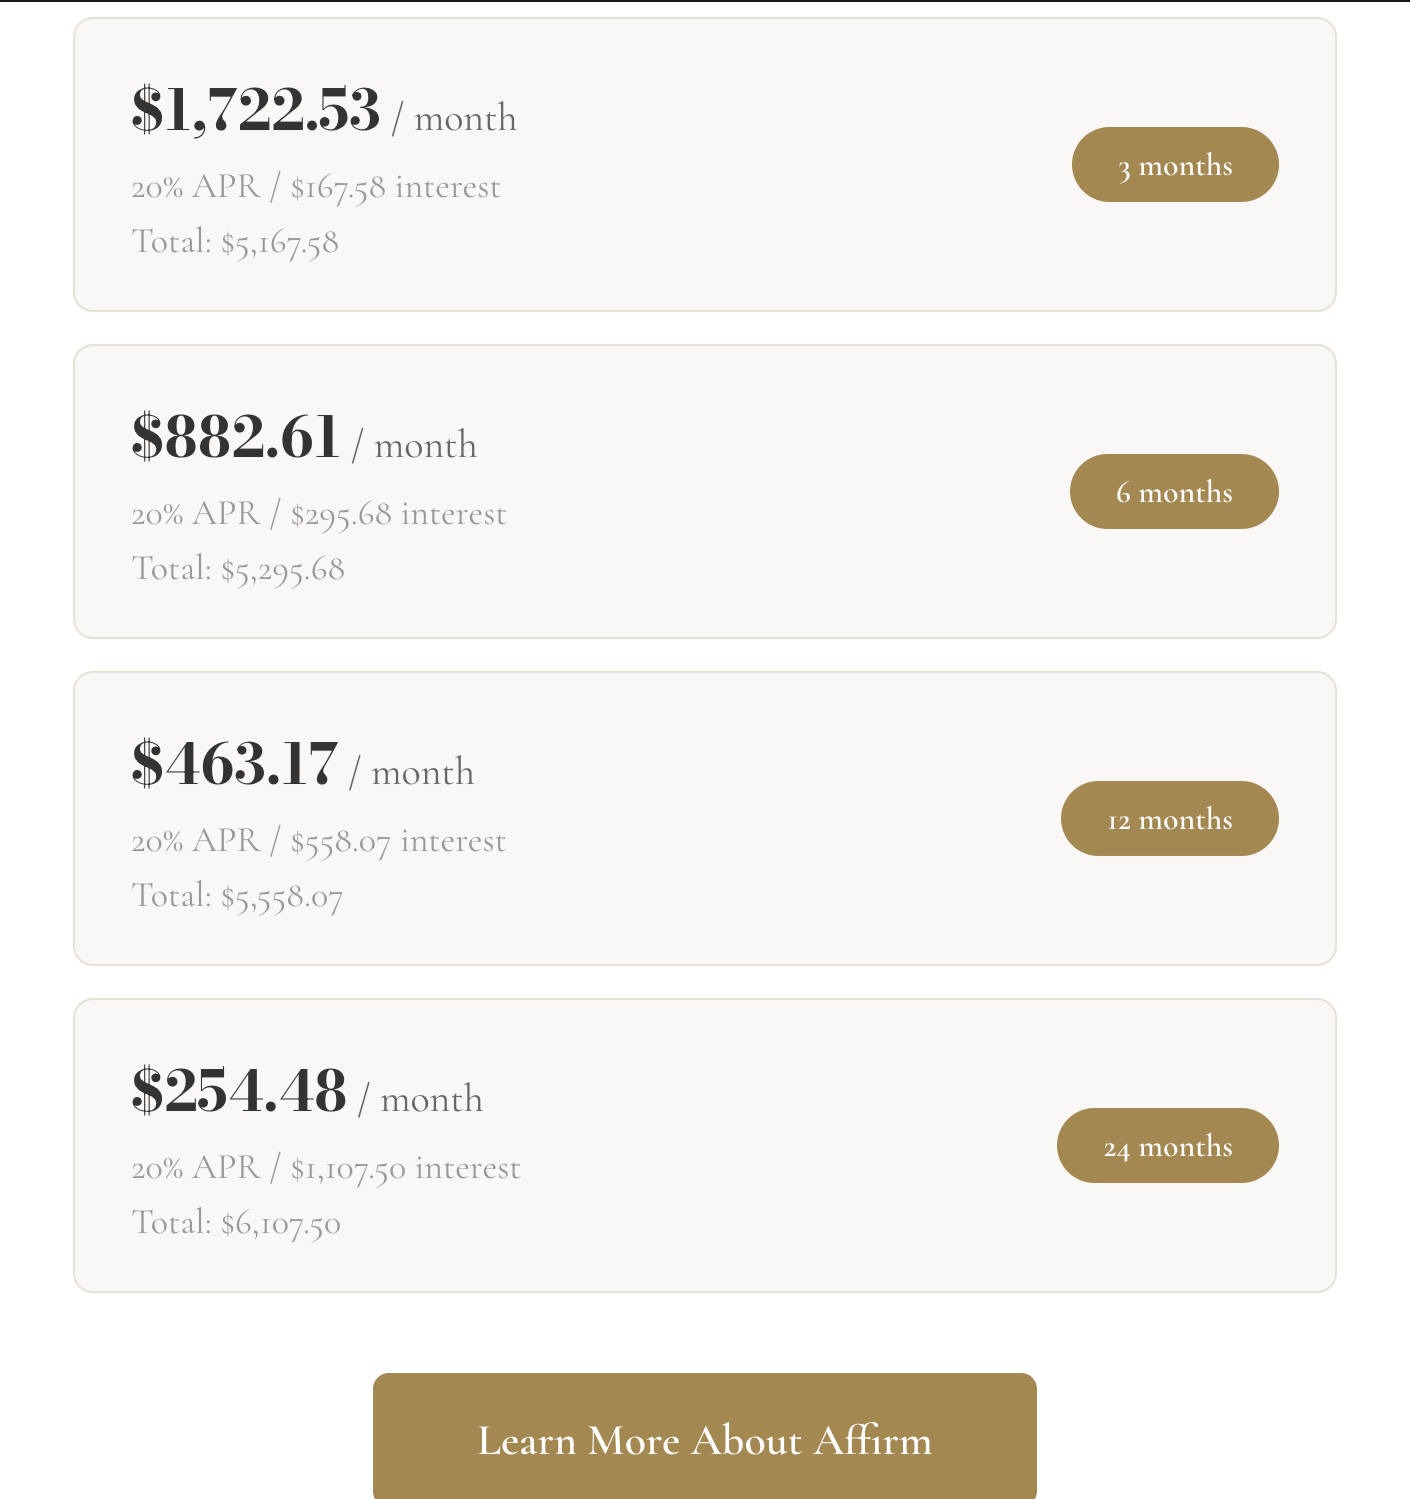
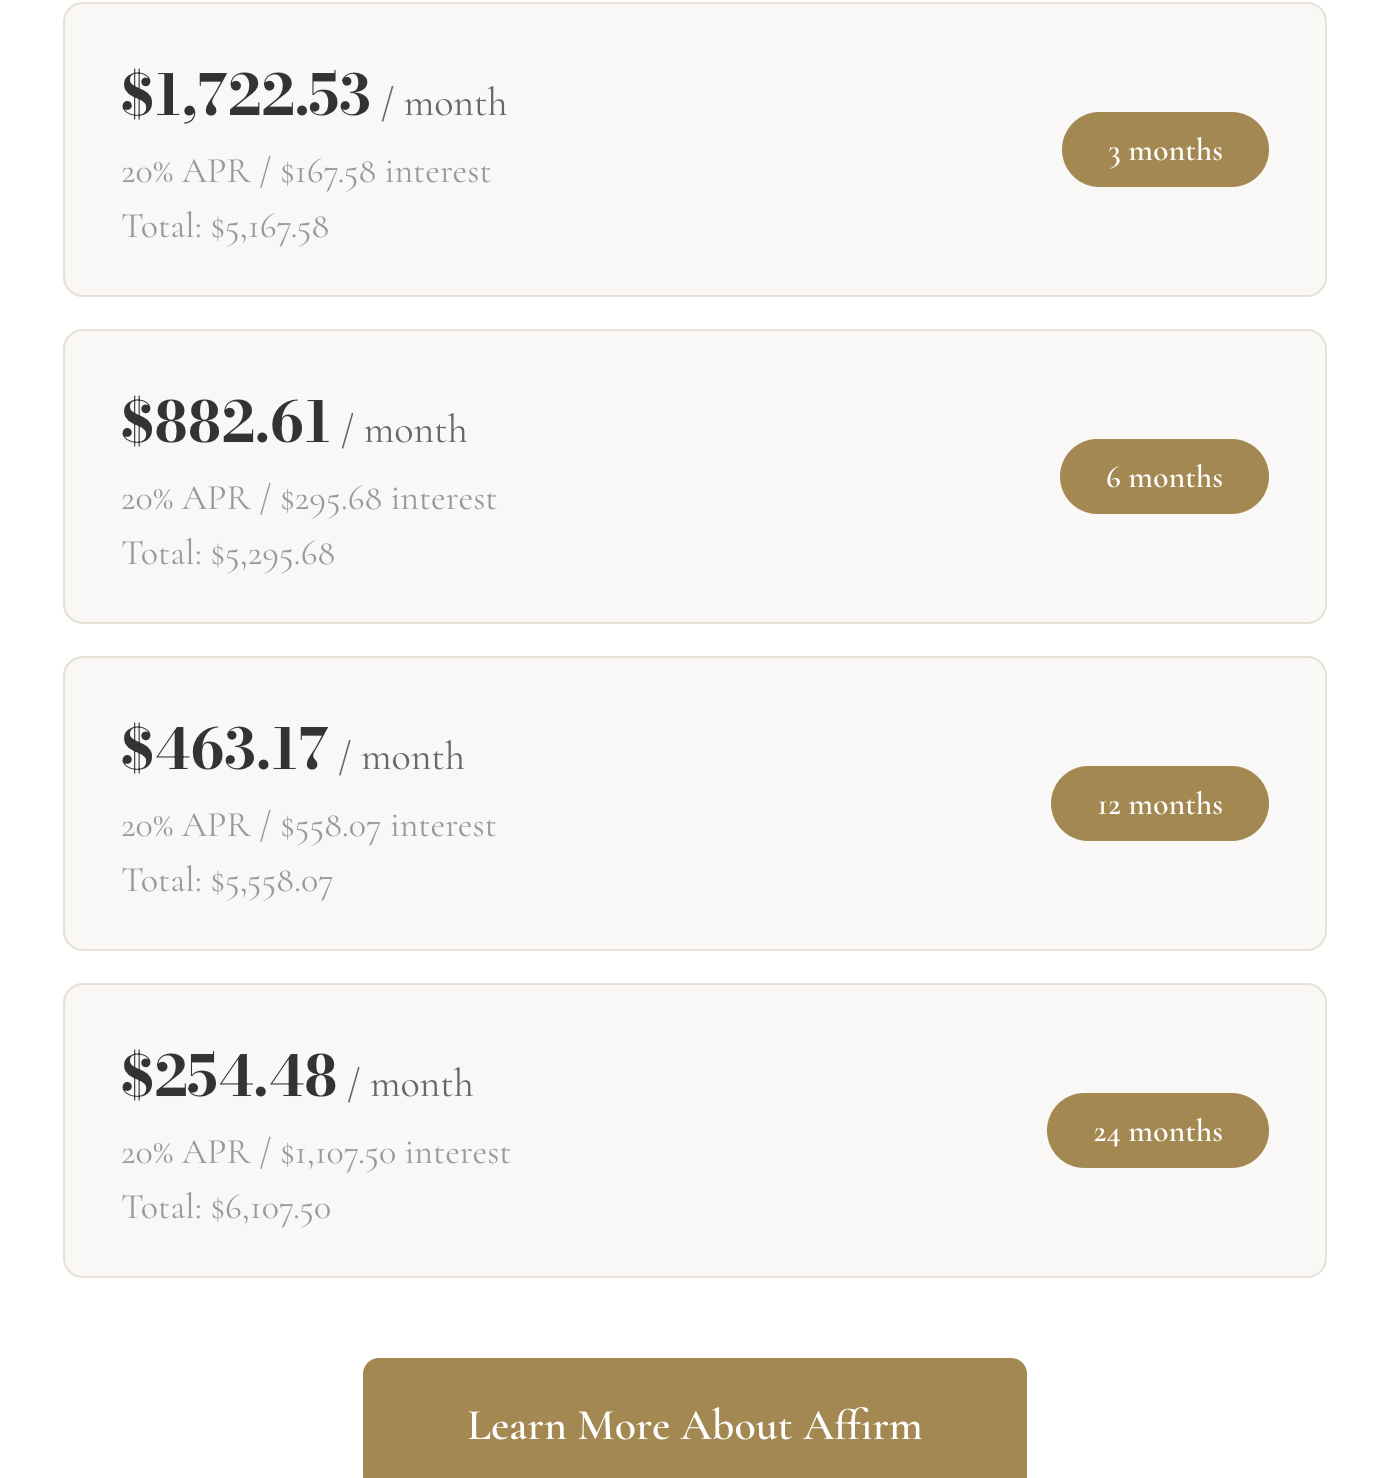
Remove hybrid pricing image, update affirm2 crop

diff --git a/index.html b/index.html
@@ -92,7 +92,7 @@
           <img src="images/wfp-faq-new.png" alt="White Finch Press FAQ section">
           <img src="images/wfp-affirm1.png" alt="White Finch Press Affirm financing integration">
           <img src="images/wfp-affirm2.png" alt="White Finch Press Affirm financing details">
-          <img src="images/wfp-hybrid-pricing.png" alt="White Finch Press hybrid model and pricing">
+
           <button class="carousel-btn prev" aria-label="Previous">&#8249;</button>
           <button class="carousel-btn next" aria-label="Next">&#8250;</button>
           <div class="carousel-dots"></div>
